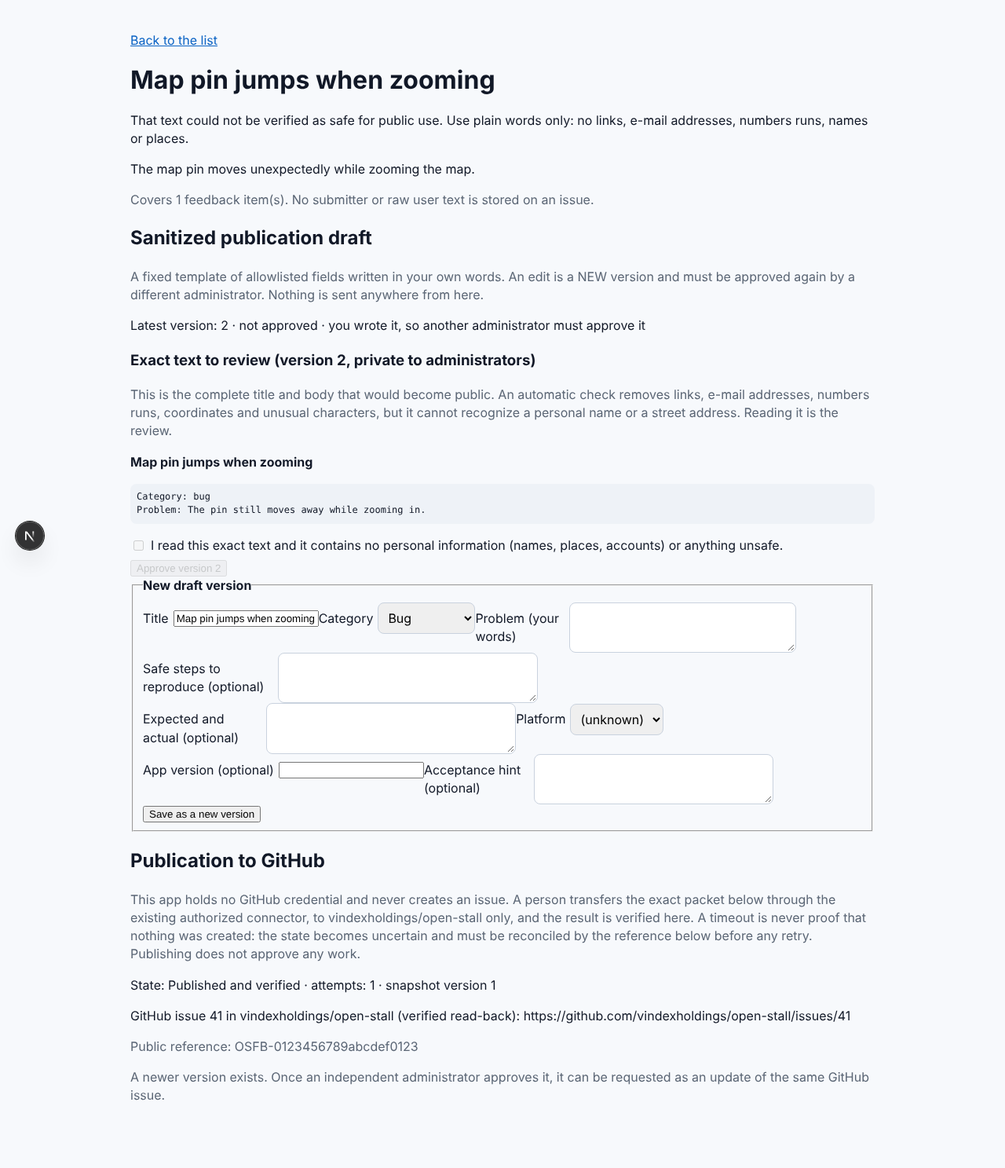
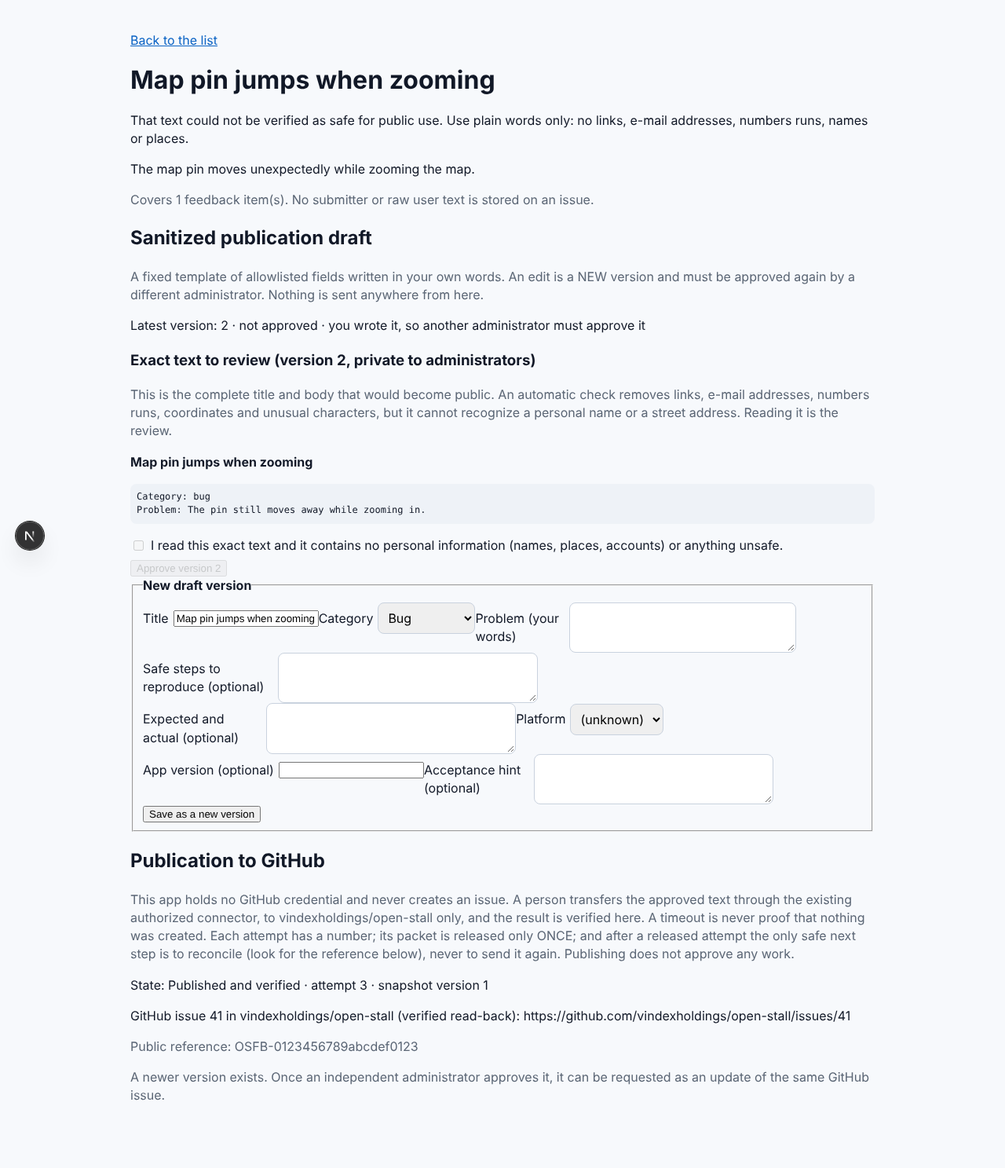
OS-APP-FEEDBACK F2 corrections (admin): attempt-aware publication UI (prepare/cancel/release-once/reconcile-only), absence evidence form, stale-attempt rejection; unit + browser tests

Changed region(s): [[0.125, 0.7424, 0.875, 0.8662]]

diff --git a/apps/admin/src/app/feedback/issue/[id]/page.tsx b/apps/admin/src/app/feedback/issue/[id]/page.tsx
@@ -1,8 +1,8 @@
 import Link from 'next/link';
 import { notFound } from 'next/navigation';
-import { CATEGORIES, PLATFORMS, PUBLICATION_LABEL, REPORT_OUTCOMES, eligibilityMessage, feedbackAdminError, parseId, parsePublication, type IssueView } from '@/lib/feedback';
+import { CATEGORIES, OUTCOMES_FOR, PLATFORMS, PUBLICATION_LABEL, REPORT_OUTCOMES, eligibilityMessage, feedbackAdminError, parseId, parsePublication, type IssueView } from '@/lib/feedback';
 import { requireAdminSession } from '@/lib/requireAdmin';
-import { approveDraft, beginPublication, reportPublication, requestPublication, saveDraft } from '../../actions';
+import { approveDraft, beginPublication, dispatchPublication, reportPublication, requestPublication, saveDraft } from '../../actions';
 
 export default async function FeedbackIssue({ params, searchParams }: { params: Promise<{ id: string }>; searchParams: Promise<{ error?: string; notice?: string }> }) {
   const id = parseId((await params).id);
@@ -20,8 +20,9 @@ export default async function FeedbackIssue({ params, searchParams }: { params: 
   const pubRes = d ? await db.rpc('admin_feedback_publication_get', { p_issue: id }) : null;
   const pub = parsePublication(pubRes?.data ?? null);
   const pubError = pubRes?.error ? feedbackAdminError(pubRes.error) : null;
-  const inProgress = pub.status === 'awaiting_transfer' || pub.status === 'uncertain' || pub.status === 'conflict';
-  const canRequest = Boolean(d?.eligible) && (pub.status === 'none' || pub.status === 'failed' || (pub.status === 'published' && pub.version !== d?.version));
+  const reconcileOnly = pub.status === 'uncertain' || pub.status === 'failed' || pub.status === 'conflict';
+  const outcomes = REPORT_OUTCOMES.filter((o) => OUTCOMES_FOR[pub.status].includes(o.value));
+  const canRequest = Boolean(d?.eligible) && (pub.status === 'none' || (pub.status === 'published' && pub.version !== d?.version));
   const ineligible = d?.approved && !d.eligible ? eligibilityMessage(d.block) ?? 'This version is approved, but it is not eligible for export right now.' : null;
 
   return (
@@ -78,15 +79,17 @@ export default async function FeedbackIssue({ params, searchParams }: { params: 
       <section aria-label="Publication to GitHub">
         <h2>Publication to GitHub</h2>
         <p className="muted">
-          This app holds no GitHub credential and never creates an issue. A person transfers the exact packet below through the existing authorized connector, to {pub.repo} only, and the result is
-          verified here. A timeout is never proof that nothing was created: the state becomes uncertain and must be reconciled by the reference below before any retry. Publishing does not approve any work.
+          This app holds no GitHub credential and never creates an issue. A person transfers the approved text through the existing authorized connector, to {pub.repo} only, and the result is
+          verified here. A timeout is never proof that nothing was created. Each attempt has a number; its packet is released only ONCE; and after a released attempt the only safe next step is to
+          reconcile (look for the reference below), never to send it again. Publishing does not approve any work.
         </p>
         {pubError ? <p role="alert">{pubError}</p> : null}
-        <p role="status">State: {PUBLICATION_LABEL[pub.status]}{pub.attempts ? ` · attempts: ${pub.attempts}` : ''}{pub.version ? ` · snapshot version ${pub.version}` : ''}</p>
+        <p role="status">State: {PUBLICATION_LABEL[pub.status]}{pub.attempt ? ` · attempt ${pub.attempt}` : ''}{pub.version ? ` · snapshot version ${pub.version}` : ''}</p>
         {pub.status === 'published' && pub.issue_url ? <p>GitHub issue {pub.issue_number} in {pub.repo} (verified read-back): {pub.issue_url}</p> : null}
         {pub.marker ? <p className="muted">Public reference: {pub.marker}</p> : null}
         {!d ? <p className="muted">Write and approve a sanitized draft first.</p> : null}
-        {d && !d.eligible && pub.status !== 'published' ? <p className="muted">{eligibilityMessage(d.block) ?? 'Only a currently approved, eligible version can be requested.'}</p> : null}
+        {d && !d.eligible && pub.status !== 'published' && pub.status !== 'none' && !reconcileOnly ? <p className="muted">{eligibilityMessage(d.block) ?? 'Only a currently approved, eligible version can proceed.'}</p> : null}
+        {d && !d.eligible && pub.status === 'none' ? <p className="muted">{eligibilityMessage(d.block) ?? 'Only a currently approved, eligible version can be requested.'}</p> : null}
         {pub.status === 'published' && d && pub.version !== d.version && !d.eligible ? <p className="muted">A newer version exists. Once an independent administrator approves it, it can be requested as an update of the same GitHub issue.</p> : null}
         {canRequest ? (
           <form action={requestPublication}>
@@ -97,29 +100,70 @@ export default async function FeedbackIssue({ params, searchParams }: { params: 
         {pub.status === 'ready' ? (
           <form action={beginPublication}>
             <input type="hidden" name="issue" value={issue.id} />
-            <button type="submit">Prepare the transfer packet</button>
+            <button type="submit">Prepare a new attempt (nothing is released yet)</button>
           </form>
         ) : null}
-        {inProgress && pub.packet ? (
+
+        {pub.status === 'prepared' && pub.packet ? (
           <>
-            <h3>Transfer packet (version {pub.packet.version}): {pub.packet.operation === 'update' ? `update GitHub issue ${pub.packet.issue_number}` : 'create a new issue'} in {pub.packet.repo}</h3>
-            <p className="muted">Transfer exactly this title and body, unchanged. Do not add anything. Then paste back what GitHub shows now.</p>
+            <h3>Attempt {pub.attempt} is prepared: {pub.packet.operation === 'update' ? `an update of GitHub issue ${pub.packet.issue_number}` : 'a new issue'} in {pub.packet.repo}</h3>
+            <p className="muted">Nothing has been released. Check that this is exactly the approved text. Releasing it can be done only once for this attempt; after that a reload will only offer reconciliation.</p>
             <p><strong>{pub.packet.title}</strong></p>
             <pre style={{ whiteSpace: 'pre-wrap' }}>{pub.packet.body}</pre>
-            {pub.status !== 'conflict' ? null : <p role="alert">The last result could not be verified. Record verified evidence (or reconcile) to resolve it.</p>}
+            <form action={dispatchPublication}>
+              <input type="hidden" name="issue" value={issue.id} /><input type="hidden" name="attempt" value={pub.attempt} />
+              <button type="submit">Release this attempt now (only once)</button>
+            </form>
             <form action={reportPublication}>
-              <input type="hidden" name="issue" value={issue.id} />
-              <fieldset>
-                <legend>Record the result</legend>
-                <label>What happened{' '}<select name="outcome" defaultValue={pub.status === 'awaiting_transfer' ? (pub.packet.operation === 'update' ? 'updated' : 'created') : 'found'}>{REPORT_OUTCOMES.map((o) => (<option key={o.value} value={o.value}>{o.label}</option>))}</select></label>
-                <label>Repository <input name="repo" defaultValue={pub.repo} /></label>
-                <label>Issue number <input name="number" inputMode="numeric" pattern="[0-9]*" /></label>
-                <label>Read-back title <input name="rb_title" /></label>
-                <label>Read-back body <textarea name="rb_body" rows={8} /></label>
-                <button type="submit">Record result</button>
-              </fieldset>
+              <input type="hidden" name="issue" value={issue.id} /><input type="hidden" name="attempt" value={pub.attempt} /><input type="hidden" name="outcome" value="cancelled" />
+              <button type="submit">Cancel this attempt (nothing was sent)</button>
             </form>
           </>
+        ) : null}
+
+        {pub.status === 'dispatched' && pub.packet ? (
+          <>
+            <h3>Attempt {pub.attempt} was released: {pub.packet.operation === 'update' ? `update GitHub issue ${pub.packet.issue_number}` : 'create one issue'} in {pub.packet.repo}</h3>
+            <p role="alert">Transfer this exact title and body ONCE and record the result. If you already sent it, or are not sure whether it went through, do NOT send it again: record that the outcome is unknown, then reconcile.</p>
+            <p><strong>{pub.packet.title}</strong></p>
+            <pre style={{ whiteSpace: 'pre-wrap' }}>{pub.packet.body}</pre>
+          </>
+        ) : null}
+
+        {reconcileOnly && pub.packet ? (
+          <>
+            <h3>Reconcile attempt {pub.attempt}: do NOT create anything</h3>
+            <p role="alert">
+              A transfer for this attempt was released and its result is {pub.status === 'conflict' ? 'in conflict' : pub.status === 'failed' ? 'recorded as refused' : 'unknown'}. It may already have created an issue even if no answer came back.
+              Never send it again. First look for what exists: (1) search {pub.repo} for the reference {pub.marker}; (2) list EVERY page of issues in {pub.repo} created since {pub.since ?? 'the release time'} and check each for the reference.
+              An empty search result, or a partial listing, is NOT proof that nothing exists.
+            </p>
+            <p className="muted">For comparing a read-back only (not to be sent): the exact approved title and body of version {pub.packet.version}.</p>
+            <p><strong>{pub.packet.title}</strong></p>
+            <pre style={{ whiteSpace: 'pre-wrap' }}>{pub.packet.body}</pre>
+          </>
+        ) : null}
+
+        {outcomes.length > 0 && (pub.status === 'dispatched' || reconcileOnly) ? (
+          <form action={reportPublication}>
+            <input type="hidden" name="issue" value={issue.id} /><input type="hidden" name="attempt" value={pub.attempt} /><input type="hidden" name="since" value={pub.since ?? ''} />
+            <fieldset>
+              <legend>Record the result of attempt {pub.attempt}</legend>
+              <label>What happened{' '}<select name="outcome" defaultValue={outcomes[0]?.value}>{outcomes.map((o) => (<option key={o.value} value={o.value}>{o.label}</option>))}</select></label>
+              <label>Repository <input name="repo" defaultValue={pub.repo} /></label>
+              <label>Issue number <input name="number" inputMode="numeric" pattern="[0-9]*" /></label>
+              <label>Read-back title <input name="rb_title" /></label>
+              <label>Read-back body <textarea name="rb_body" rows={8} /></label>
+              {reconcileOnly ? (
+                <>
+                  <label>Pages of the listing you read <input name="pages" inputMode="numeric" pattern="[0-9]*" /></label>
+                  <label>Issues you looked at <input name="scanned" inputMode="numeric" pattern="[0-9]*" /></label>
+                  <label><input type="checkbox" name="complete" value="yes" /> I listed ALL pages of issues created since {pub.since ?? 'the time shown'} and none carries the reference.</label>
+                </>
+              ) : null}
+              <button type="submit">Record result</button>
+            </fieldset>
+          </form>
         ) : null}
       </section>
       {exp ? (

diff --git a/apps/admin/src/lib/feedback.ts b/apps/admin/src/lib/feedback.ts
@@ -106,6 +106,10 @@ export function feedbackAdminError(err: { code?: string; message?: string } | nu
   if (m.includes('administrators cannot publish')) return 'You cannot publish a snapshot built from your own feedback. Another administrator must.';
   if (m.includes('already in progress or unresolved')) return 'A transfer is already in progress or unresolved. Record its result or reconcile it first.';
   if (m.includes('not ready to transfer')) return 'This publication is not ready to transfer. Check its state below.';
+  if (m.includes('stale attempt')) return 'That result belongs to an older attempt and was ignored. Reload the page and use the current attempt.';
+  if (m.includes('is not prepared')) return 'This attempt was already released or is no longer current. A released packet is never released twice: reconcile instead.';
+  if (m.includes('absence is not verified')) return 'Nothing can be recorded as missing without a COMPLETE listing that started before the transfer was released. Keep it as unknown, or finish the listing.';
+  if (m.includes('does not apply to the current state')) return 'That result does not apply to the current state. Reload the page.';
   if (m.includes('snapshot or its eligibility changed')) return 'The approved snapshot or its eligibility changed. Request the publication again.';
   if (m.includes('no transfer is awaiting')) return 'No transfer is awaiting a result.';
   if (m.includes('only an uncertain transfer')) return 'None-found only applies to reconciling an uncertain transfer.';
@@ -117,16 +121,17 @@ export function feedbackAdminError(err: { code?: string; message?: string } | nu
 
 
 // ---------------------------------------------------------------- F2: reviewer-approved publication bridge (private state; no GitHub credential exists in this app)
-export const PUBLICATION_STATES = ['none', 'ready', 'awaiting_transfer', 'uncertain', 'published', 'failed', 'conflict'] as const;
+export const PUBLICATION_STATES = ['none', 'ready', 'prepared', 'dispatched', 'uncertain', 'published', 'failed', 'conflict'] as const;
 export type PublicationState = (typeof PUBLICATION_STATES)[number];
 export const PUBLICATION_LABEL: Record<PublicationState, string> = {
-  none: 'No publication requested', ready: 'Ready for transfer', awaiting_transfer: 'Transfer started, waiting for the result', uncertain: 'Outcome UNCERTAIN: reconcile before any retry',
-  published: 'Published and verified', failed: 'Failed (nothing was created)', conflict: 'CONFLICT: needs manual resolution',
+  none: 'No publication requested', ready: 'Ready: no attempt in progress', prepared: 'Attempt prepared: nothing has been released', dispatched: 'Packet RELEASED: the outcome is not recorded yet',
+  uncertain: 'Outcome UNCERTAIN: reconcile before anything else', published: 'Published and verified', failed: 'Failed attempt: reconcile before any retry', conflict: 'CONFLICT: needs verified evidence or manual resolution',
 };
 export type PublicationView = {
-  status: PublicationState; operation?: 'create' | 'update'; version?: number; marker?: string; expected_hash?: string; issue_number?: number | null; issue_url?: string | null;
-  attempts?: number; published_hash?: string | null; current?: boolean; eligible: boolean; block: string | null; repo: string; packet?: TransferPacket | null;
+  status: PublicationState; operation?: 'create' | 'update'; version?: number; attempt?: number; marker?: string; expected_hash?: string; issue_number?: number | null; issue_url?: string | null;
+  published_hash?: string | null; dispatched_at?: string | null; since?: string | null; current?: boolean; eligible: boolean; block: string | null; repo: string; packet?: TransferPacket | null;
 };
+const ISO = /^\d{4}-\d{2}-\d{2}T\d{2}:\d{2}:\d{2}(\.\d+)?(Z|[+-]\d{2}(:\d{2})?)$/;
 /** Defensive read of the server's publication view: anything unexpected reads as "none", never as invented state. The packet is re-validated field by field. */
 export function parsePublication(v: unknown): PublicationView {
   const none: PublicationView = { status: 'none', eligible: false, block: null, repo: PUBLICATION_REPO };
@@ -136,34 +141,58 @@ export function parsePublication(v: unknown): PublicationView {
   const packet = o.packet ? parsePacket(o.packet) : null;
   return {
     status: o.status as PublicationState, operation: o.operation === 'update' ? 'update' : o.operation === 'create' ? 'create' : undefined,
-    version: typeof o.version === 'number' ? o.version : undefined, marker: typeof o.marker === 'string' ? o.marker : undefined,
+    version: typeof o.version === 'number' ? o.version : undefined, attempt: typeof o.attempt === 'number' ? o.attempt : undefined, marker: typeof o.marker === 'string' ? o.marker : undefined,
     expected_hash: typeof o.expected_hash === 'string' ? o.expected_hash : undefined, issue_number: typeof o.issue_number === 'number' ? o.issue_number : null,
     issue_url: typeof o.issue_url === 'string' && /^https:\/\/github\.com\/vindexholdings\/open-stall\/issues\/[0-9]+$/.test(o.issue_url) ? o.issue_url : null,
-    attempts: typeof o.attempts === 'number' ? o.attempts : undefined, published_hash: typeof o.published_hash === 'string' ? o.published_hash : null,
+    published_hash: typeof o.published_hash === 'string' ? o.published_hash : null,
+    dispatched_at: typeof o.dispatched_at === 'string' && ISO.test(o.dispatched_at) ? o.dispatched_at : null, since: typeof o.since === 'string' && ISO.test(o.since) ? o.since : null,
     current: o.current === true, eligible: o.eligible === true, block: typeof o.block === 'string' ? o.block : null, repo: PUBLICATION_REPO, packet,
   };
 }
 export const REPORT_OUTCOMES = [
   { value: 'created', label: 'I created the issue (read-back below)' }, { value: 'updated', label: 'I updated the issue (read-back below)' },
-  { value: 'found', label: 'Reconciliation found exactly one issue (read-back below)' }, { value: 'none_found', label: 'Reconciliation found NO issue' },
+  { value: 'found', label: 'Reconciliation found exactly one issue (read-back below)' },
+  { value: 'none_found', label: 'Reconciliation found NO issue after a COMPLETE listing (evidence below)' },
   { value: 'multiple', label: 'Reconciliation found several issues' }, { value: 'uncertain', label: 'The outcome is unknown (timeout or no answer)' },
-  { value: 'failed', label: 'The connector refused and nothing was created' },
+  { value: 'failed', label: 'The connector refused and nothing was created' }, { value: 'cancelled', label: 'Cancel this attempt (the packet was never released)' },
 ] as const;
+export type ReportOutcome = (typeof REPORT_OUTCOMES)[number]['value'];
+/** Which results make sense in which state (the DATABASE decides; this only offers sensible choices and never offers a create after a released attempt). */
+export const OUTCOMES_FOR: Record<PublicationState, readonly ReportOutcome[]> = {
+  none: [], ready: [], published: [], prepared: ['cancelled'],
+  dispatched: ['created', 'updated', 'uncertain', 'failed'],
+  uncertain: ['found', 'none_found', 'multiple', 'uncertain'], failed: ['found', 'none_found', 'multiple'], conflict: ['found', 'multiple'],
+};
 const EVIDENCE_OUTCOMES = ['created', 'updated', 'found'];
 /** Builds the report arguments from what the person read BACK from GitHub (repo, number, title, body); the hash and marker are computed here from that text, never typed. */
 export function parseReportForm(f: FormLike, sha: Sha256Hex): Parsed<ReportArgs & { p_issue: string }> {
-  const issue = parseId(s(f, 'issue')); const outcome = s(f, 'outcome');
+  const issue = parseId(s(f, 'issue')); const outcome = s(f, 'outcome'); const attempt = Number(s(f, 'attempt'));
   if (!issue) return { ok: false, error: 'Invalid issue id.' };
+  if (!Number.isInteger(attempt) || attempt < 1 || attempt > 1_000_000) return { ok: false, error: 'Invalid attempt.' };
   if (!REPORT_OUTCOMES.some((o) => o.value === outcome)) return { ok: false, error: 'Choose what happened.' };
-  if (!EVIDENCE_OUTCOMES.includes(outcome)) return { ok: true, args: { p_issue: issue, p_outcome: outcome as ReportArgs['p_outcome'] } };
+  if (outcome === 'none_found') {
+    const pages = Number(s(f, 'pages')); const scanned = Number(s(f, 'scanned')); const since = s(f, 'since');
+    if (s(f, 'complete') !== 'yes') return { ok: false, error: 'No issue can be recorded as missing unless you listed ALL pages of issues created since the time shown, and confirm that.' };
+    if (!Number.isInteger(pages) || pages < 1 || pages > 50) return { ok: false, error: 'Enter how many pages of the listing you read (1 to 50).' };
+    if (s(f, 'scanned') === '' || !Number.isInteger(scanned) || scanned < 0 || scanned > 100000) return { ok: false, error: 'Enter how many issues you looked at (0 to 100000).' };
+    if (!ISO.test(since) || Number.isNaN(Date.parse(since))) return { ok: false, error: 'The listing start time is missing. Reload the page.' };
+    return { ok: true, args: { p_issue: issue, p_attempt: attempt, p_outcome: 'none_found', p_since: since, p_pages: pages, p_scanned: scanned, p_complete: true } };
+  }
+  if (!EVIDENCE_OUTCOMES.includes(outcome)) return { ok: true, args: { p_issue: issue, p_attempt: attempt, p_outcome: outcome as ReportArgs['p_outcome'] } };
   const repo = s(f, 'repo'); const number = Number(s(f, 'number')); const title = s(f, 'rb_title'); const body = typeof f.get('rb_body') === 'string' ? (f.get('rb_body') as string) : '';
   if (!/^[A-Za-z0-9_.-]{1,100}\/[A-Za-z0-9_.-]{1,100}$/.test(repo)) return { ok: false, error: 'Enter the repository the issue is in (owner/name).' };
   if (!Number.isInteger(number) || number < 1 || number > 100000000) return { ok: false, error: 'Enter the GitHub issue number.' };
   if (title.length < 1 || title.length > 300 || body.trim().length < 1 || body.length > 20000) return { ok: false, error: 'Paste the issue title and body exactly as GitHub shows them now (the read-back).' };
-  const ev = evidenceFrom(outcome as 'created' | 'found' | 'updated', { repo, number, url: `https://github.com/${repo}/issues/${number}`, title, body }, sha);
+  const ev = evidenceFrom(attempt, outcome as 'created' | 'found' | 'updated', { repo, number, url: `https://github.com/${repo}/issues/${number}`, title, body }, sha);
   return { ok: true, args: { p_issue: issue, ...ev } };
 }
 export function parseIssueOnlyForm(f: FormLike): Parsed<{ p_issue: string }> {
   const issue = parseId(s(f, 'issue'));
   return issue ? { ok: true, args: { p_issue: issue } } : { ok: false, error: 'Invalid issue id.' };
+}
+export function parseAttemptForm(f: FormLike): Parsed<{ p_issue: string; p_attempt: number }> {
+  const issue = parseId(s(f, 'issue')); const attempt = Number(s(f, 'attempt'));
+  if (!issue) return { ok: false, error: 'Invalid issue id.' };
+  if (!Number.isInteger(attempt) || attempt < 1 || attempt > 1_000_000) return { ok: false, error: 'Invalid attempt.' };
+  return { ok: true, args: { p_issue: issue, p_attempt: attempt } };
 }

diff --git a/apps/admin/src/lib/feedback.test.ts b/apps/admin/src/lib/feedback.test.ts
@@ -1,6 +1,6 @@
 import { describe, expect, it } from 'vitest';
 import { createHash } from 'node:crypto';
-import { NEXT_STATUS, eligibilityMessage, parsePublication, parseReportForm, parseCandidates, feedbackAdminError, parseApproveForm, parseCursor, parseDraftForm, parseId, parseIssueForm, parseLinkForm, parseStatusFilter, parseStatusForm } from './feedback';
+import { NEXT_STATUS, OUTCOMES_FOR, eligibilityMessage, parsePublication, parseReportForm, parseCandidates, feedbackAdminError, parseApproveForm, parseCursor, parseDraftForm, parseId, parseIssueForm, parseLinkForm, parseStatusFilter, parseStatusForm } from './feedback';
 
 const ID = '3f2b9c1e-8f55-4a52-9d3a-0c1a2b3c4d5e';
 const form = (o: Record<string, string>) => ({ get: (k: string) => o[k] ?? null });
@@ -83,49 +83,79 @@ describe('error wording', () => {
     const sha = (t: string) => createHash('sha256').update(t, 'utf8').digest('hex');
     const MARK = 'OSFB-0123456789abcdef0123';
     const BODY = `Category: bug\nProblem: The pin jumps\n\nFeedback reference: ${MARK}`;
-    const f = (o: Record<string, string>) => form({ issue: ID, ...o });
-    it('computes the hash and marker from the pasted read-back (never typed)', () => {
-      const r = parseReportForm(f({ outcome: 'created', repo: 'vindexholdings/open-stall', number: '41', rb_title: 'Pin jumps', rb_body: BODY }), sha);
-      expect(r).toMatchObject({ ok: true, args: { p_issue: ID, p_outcome: 'created', p_repo: 'vindexholdings/open-stall', p_number: 41, p_url: 'https://github.com/vindexholdings/open-stall/issues/41', p_marker: MARK } });
+    const f = (o: Record<string, string>) => form({ issue: ID, attempt: '2', ...o });
+    const ok = { repo: 'vindexholdings/open-stall', number: '41', rb_title: 'Pin jumps', rb_body: BODY };
+    it('computes the hash and marker from the pasted read-back (never typed) and fences the result to its attempt', () => {
+      const r = parseReportForm(f({ outcome: 'created', ...ok }), sha);
+      expect(r).toMatchObject({ ok: true, args: { p_issue: ID, p_attempt: 2, p_outcome: 'created', p_repo: 'vindexholdings/open-stall', p_number: 41, p_url: 'https://github.com/vindexholdings/open-stall/issues/41', p_marker: MARK } });
       if (r.ok) expect(r.args.p_readback_hash).toBe(sha(`Pin jumps\u001e${BODY}`));
     });
     it('tolerates GitHub line endings and a trailing newline, nothing else', () => {
-      const a = parseReportForm(f({ outcome: 'found', repo: 'vindexholdings/open-stall', number: '41', rb_title: 'Pin jumps', rb_body: BODY.replace(/\n/g, '\r\n') + '\r\n' }), sha);
-      const b = parseReportForm(f({ outcome: 'found', repo: 'vindexholdings/open-stall', number: '41', rb_title: 'Pin jumps', rb_body: BODY }), sha);
+      const a = parseReportForm(f({ outcome: 'found', ...ok, rb_body: BODY.replace(/\n/g, '\r\n') + '\r\n' }), sha);
+      const b = parseReportForm(f({ outcome: 'found', ...ok }), sha);
       expect(a.ok && b.ok && a.args.p_readback_hash === b.args.p_readback_hash).toBe(true);
-      const c = parseReportForm(f({ outcome: 'found', repo: 'vindexholdings/open-stall', number: '41', rb_title: 'Pin jumps', rb_body: BODY.replace('jumps', 'moves') }), sha);
+      const c = parseReportForm(f({ outcome: 'found', ...ok, rb_body: BODY.replace('jumps', 'moves') }), sha);
       expect(c.ok && a.ok && c.args.p_readback_hash !== a.args.p_readback_hash).toBe(true);
     });
     it('a read-back without the reference line carries no marker (the server then fails closed)', () => {
-      const r = parseReportForm(f({ outcome: 'created', repo: 'vindexholdings/open-stall', number: '41', rb_title: 'Pin jumps', rb_body: 'Problem: x' }), sha);
+      const r = parseReportForm(f({ outcome: 'created', ...ok, rb_body: 'Problem: x' }), sha);
       expect(r.ok && r.args.p_marker).toBeNull();
     });
-    it('outcomes without evidence need no read-back and send none', () => {
-      for (const o of ['none_found', 'multiple', 'uncertain', 'failed']) {
-        const r = parseReportForm(f({ outcome: o }), sha);
-        expect(r).toEqual({ ok: true, args: { p_issue: ID, p_outcome: o } });
+    it('outcomes without evidence need no read-back and send none, but always carry the attempt', () => {
+      for (const o of ['multiple', 'uncertain', 'failed', 'cancelled']) {
+        expect(parseReportForm(f({ outcome: o }), sha)).toEqual({ ok: true, args: { p_issue: ID, p_attempt: 2, p_outcome: o } });
       }
+    });
+    it('an attempt is required and must be a positive integer', () => {
+      for (const bad of ['', '0', '-1', '1.5', 'x']) expect(parseReportForm(form({ issue: ID, outcome: 'uncertain', attempt: bad }), sha).ok).toBe(false);
+      expect(parseReportForm(form({ issue: ID, outcome: 'uncertain' }), sha).ok).toBe(false);
+    });
+    describe('none_found needs EXHAUSTIVE-absence evidence', () => {
+      const since = '2026-11-01T04:50:00.000+00:00';
+      const good = { outcome: 'none_found', since, pages: '3', scanned: '120', complete: 'yes' };
+      it('accepts a confirmed complete listing and sends what was checked', () => {
+        expect(parseReportForm(f(good), sha)).toEqual({ ok: true, args: { p_issue: ID, p_attempt: 2, p_outcome: 'none_found', p_since: since, p_pages: 3, p_scanned: 120, p_complete: true } });
+      });
+      it('refuses without the confirmation, or with missing/odd numbers or a bad start time', () => {
+        for (const bad of [{ complete: '' }, { complete: 'on' }, { pages: '0' }, { pages: '51' }, { pages: '' }, { scanned: '-1' }, { scanned: '' }, { scanned: '100001' }, { since: '' }, { since: 'yesterday' }]) {
+          expect(parseReportForm(f({ ...good, ...bad }), sha).ok).toBe(false);
+        }
+      });
     });
     it('refuses unknown outcomes, bad ids, bad repos, bad numbers and missing read-backs', () => {
       expect(parseReportForm(f({ outcome: 'bogus' }), sha).ok).toBe(false);
-      expect(parseReportForm(form({ outcome: 'failed', issue: 'x' }), sha).ok).toBe(false);
+      expect(parseReportForm(form({ outcome: 'failed', issue: 'x', attempt: '1' }), sha).ok).toBe(false);
       for (const bad of [{ repo: 'no-slash' }, { repo: 'a/b/c' }, { number: '0' }, { number: 'abc' }, { number: '1.5' }, { rb_title: '' }, { rb_body: '   ' }]) {
-        expect(parseReportForm(f({ outcome: 'created', repo: 'vindexholdings/open-stall', number: '41', rb_title: 'T', rb_body: BODY, ...bad }), sha).ok).toBe(false);
+        expect(parseReportForm(f({ outcome: 'created', ...ok, ...bad }), sha).ok).toBe(false);
       }
+    });
+    it('the outcomes offered never include a create after a released attempt that is unresolved', () => {
+      for (const st of ['uncertain', 'failed', 'conflict'] as const) {
+        expect(OUTCOMES_FOR[st]).not.toContain('created'); expect(OUTCOMES_FOR[st]).not.toContain('updated');
+      }
+      expect(OUTCOMES_FOR.prepared).toEqual(['cancelled']);
+      expect(OUTCOMES_FOR.dispatched).toContain('created');
+      expect(OUTCOMES_FOR.dispatched).not.toContain('none_found');
     });
     it('reads the server view defensively and re-validates the packet', () => {
       expect(parsePublication(null).status).toBe('none');
       expect(parsePublication({ status: 'hacked' }).status).toBe('none');
-      const packet = { repo: 'vindexholdings/open-stall', operation: 'create', issue_number: null, marker: MARK, version: 1, title: 'T', body: BODY, expected_hash: 'a'.repeat(64) };
-      expect(parsePublication({ status: 'awaiting_transfer', eligible: true, block: null, packet }).packet).toEqual(packet);
-      expect(parsePublication({ status: 'awaiting_transfer', packet: { ...packet, issue_id: 'x' } }).packet).toBeNull();
+      expect(parsePublication({ status: 'awaiting_transfer' }).status).toBe('none');       // the old state name is gone
+      const packet = { repo: 'vindexholdings/open-stall', operation: 'create', issue_number: null, marker: MARK, version: 1, attempt: 1, phase: 'preview', title: 'T', body: BODY, expected_hash: 'a'.repeat(64) };
+      expect(parsePublication({ status: 'prepared', attempt: 1, eligible: true, block: null, packet }).packet).toEqual(packet);
+      expect(parsePublication({ status: 'prepared', packet: { ...packet, issue_id: 'x' } }).packet).toBeNull();
       expect(parsePublication({ status: 'published', issue_number: 7, issue_url: 'https://evil.example/x/issues/7' }).issue_url).toBeNull();
       expect(parsePublication({ status: 'published', issue_number: 7, issue_url: 'https://github.com/vindexholdings/open-stall/issues/7' }).issue_url).toMatch(/issues\/7$/);
+      expect(parsePublication({ status: 'dispatched', since: '2026-11-01T04:50:00+00:00' }).since).toBe('2026-11-01T04:50:00+00:00');
+      expect(parsePublication({ status: 'dispatched', since: 'not a time' }).since).toBeNull();
     });
     it('explains publication refusals kindly', () => {
       expect(feedbackAdminError({ message: 'administrators cannot publish a snapshot built from their own feedback' })).toMatch(/own feedback/);
       expect(feedbackAdminError({ message: 'a transfer is already in progress or unresolved; reconcile it first' })).toMatch(/reconcile/);
       expect(feedbackAdminError({ message: 'the approved snapshot or its eligibility changed; request the publication again' })).toMatch(/Request the publication again/);
+      expect(feedbackAdminError({ message: 'stale attempt: this result belongs to an older attempt and was ignored' })).toMatch(/older attempt/);
+      expect(feedbackAdminError({ message: 'this attempt is not prepared (it was already released or is no longer current)' })).toMatch(/never released twice/);
+      expect(feedbackAdminError({ message: 'absence is not verified: a complete listing that started before the transfer is required' })).toMatch(/COMPLETE listing/);
     });
   });
 });

diff --git a/apps/admin/src/app/feedback/actions.ts b/apps/admin/src/app/feedback/actions.ts
@@ -3,7 +3,7 @@
 import { revalidatePath } from 'next/cache';
 import { redirect } from 'next/navigation';
 import { createHash } from 'node:crypto';
-import { feedbackAdminError, parseApproveForm, parseDraftForm, parseId, parseIssueForm, parseIssueOnlyForm, parseLinkForm, parseReportForm, parseStatusForm } from '@/lib/feedback';
+import { feedbackAdminError, parseApproveForm, parseDraftForm, parseId, parseIssueForm, parseAttemptForm, parseIssueOnlyForm, parseLinkForm, parseReportForm, parseStatusForm } from '@/lib/feedback';
 import { requireAdminSession } from '@/lib/requireAdmin';
 
 const go = (path: string, m: string, ok = false): never => redirect(`${path}${path.includes('?') ? '&' : '?'}${ok ? 'notice' : 'error'}=${encodeURIComponent(m)}`);
@@ -85,7 +85,18 @@ export async function beginPublication(formData: FormData): Promise<void> {
   const db = await requireAdminSession();
   const { error } = await db.rpc('admin_feedback_publication_begin', p.args);
   if (error) return go(back, feedbackAdminError(error));
-  return go(back, 'Transfer started. The packet is shown below; transfer it exactly, then record the result.', true);
+  return go(back, 'A new attempt was prepared. Nothing has been released yet: check the exact text below, then release it (once) or cancel.', true);
+}
+
+/** Releases the executable packet for exactly the named attempt, ONCE. Afterwards a reload only ever shows reconciliation guidance. */
+export async function dispatchPublication(formData: FormData): Promise<void> {
+  const back = issuePath(formData.get('issue'));
+  const p = parseAttemptForm(formData);
+  if (!p.ok) return go(back, p.error);
+  const db = await requireAdminSession();
+  const { error } = await db.rpc('admin_feedback_publication_dispatch', p.args);
+  if (error) return go(back, feedbackAdminError(error));
+  return go(back, 'The packet was released for this attempt. Transfer it ONCE, then record the result. If you are unsure whether it was sent, do not send it again: record that and reconcile.', true);
 }
 
 export async function reportPublication(formData: FormData): Promise<void> {
